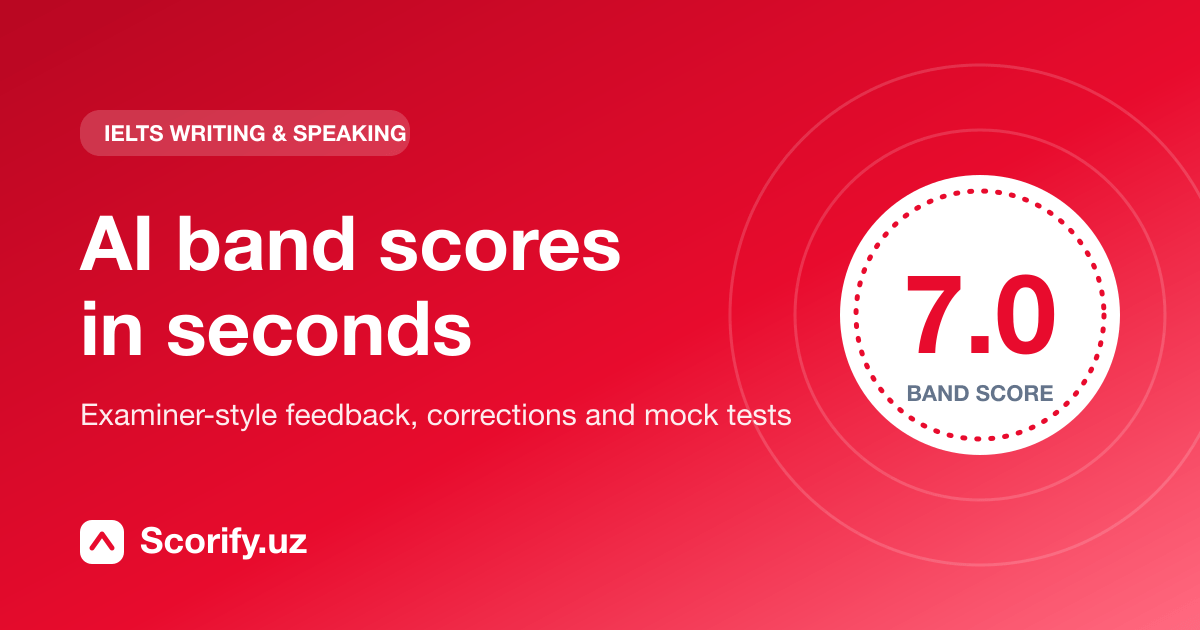
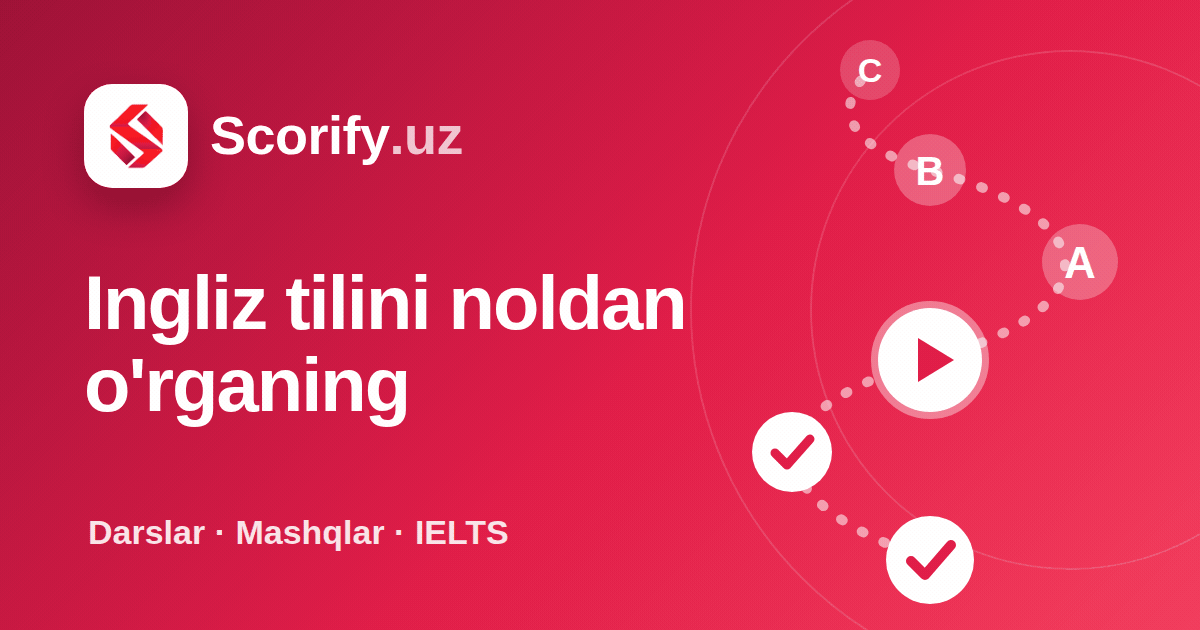
New social preview image (general, minimal text) and cache-busting version (#31)
Claude-Session: https://claude.ai/code/session_01FY6vhkVT6NTVQX4Xk4nYW3

diff --git a/index.html b/index.html
@@ -14,10 +14,10 @@
     <link rel="icon" type="image/png" sizes="48x48" href="/logo-48.png" />
     <link rel="shortcut icon" href="/logo-48.png" />
     <link rel="apple-touch-icon" sizes="180x180" href="/logo-180.png" />
-    <meta property="og:image" content="https://www.scorify.uz/og-image.png" />
+    <meta property="og:image" content="https://www.scorify.uz/og-image.png?v=2" />
     <meta property="og:image:width" content="1200" />
     <meta property="og:image:height" content="630" />
-    <meta name="twitter:image" content="https://www.scorify.uz/og-image.png" />
+    <meta name="twitter:image" content="https://www.scorify.uz/og-image.png?v=2" />
 
     <meta property="og:site_name" content="Scorify.uz" />
     <meta property="og:locale" content="en_US" />

diff --git a/src/components/SEOHead.tsx b/src/components/SEOHead.tsx
@@ -35,8 +35,8 @@ export function SEOHead({ title, description, path = '', noindex, jsonLd }: SEOH
       <meta property="og:title" content={fullTitle} />
       <meta property="og:description" content={desc} />
       <meta property="og:url" content={url} />
-      <meta property="og:image" content={`${BASE_URL}/og-image.png`} />
-      <meta name="twitter:image" content={`${BASE_URL}/og-image.png`} />
+      <meta property="og:image" content={`${BASE_URL}/og-image.png?v=2`} />
+      <meta name="twitter:image" content={`${BASE_URL}/og-image.png?v=2`} />
       <meta name="twitter:card" content="summary_large_image" />
       <meta name="twitter:title" content={fullTitle} />
       <meta name="twitter:description" content={desc} />
